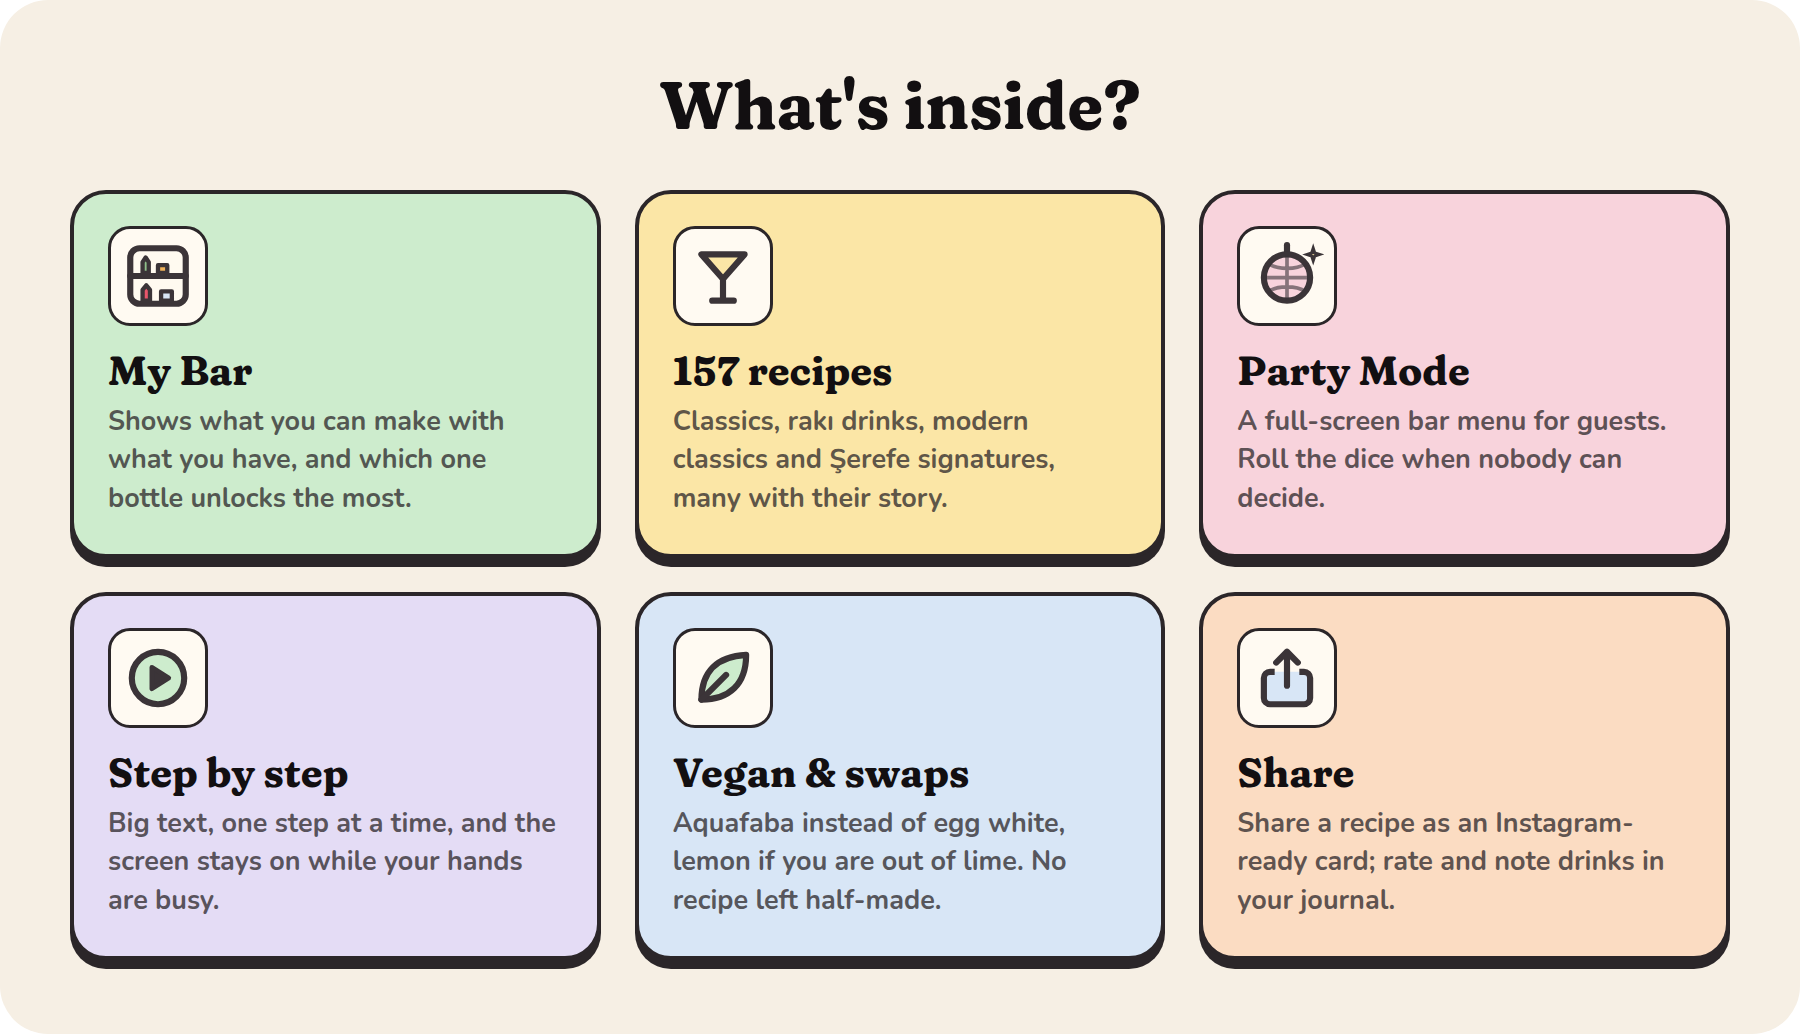
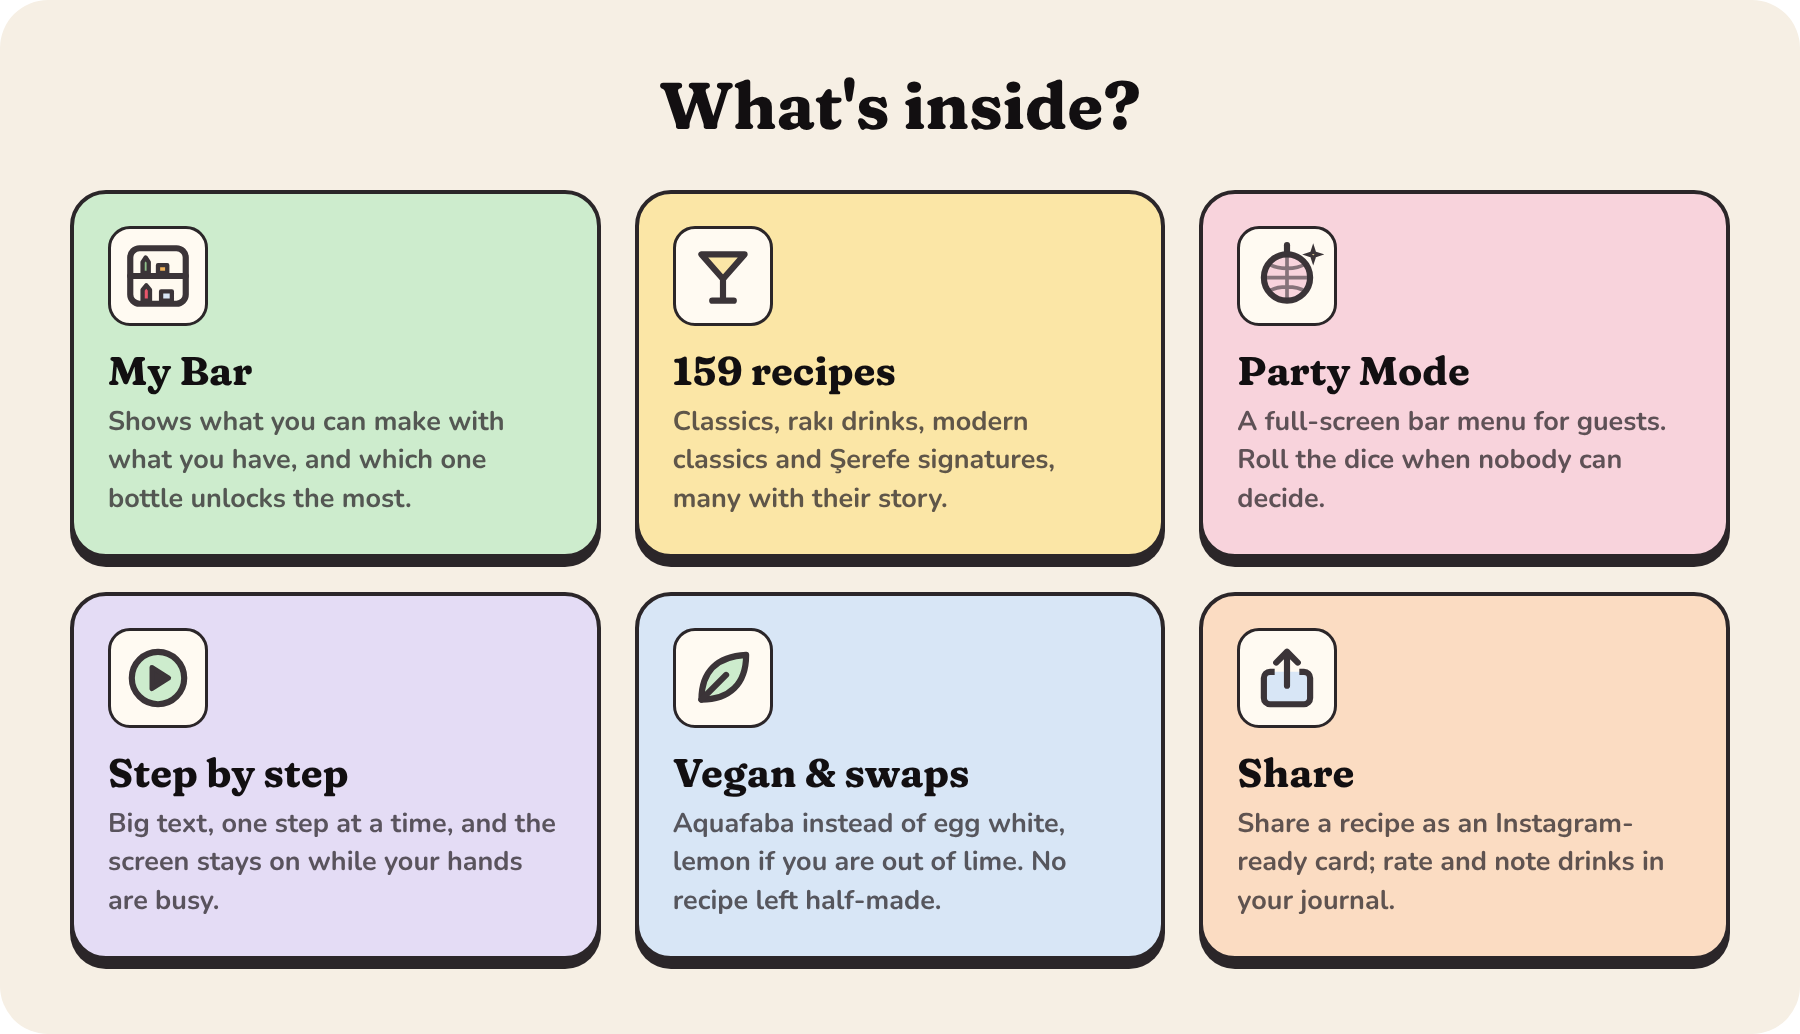
Şerefe 1.1.0 yayında: indirme notu sadeleşti, 159 tarif

diff --git a/README.md b/README.md
@@ -17,8 +17,7 @@ Tarif ezberlemek, bar ekipmanı ya da hesap açmak gerekmez: dolabını işaretl
   <a href="https://github.com/alper4n/serefe-app/releases/latest/download/Serefe-Windows-setup.exe"><img src=".github/img/indir-windows-tr.png" width="380" alt="Windows için indir (EXE)"></a>
 </p>
 
-> İlk sürüm hazırlanıyor; düğmeler kasım başında çalışmaya başlar. Telefondan bakıyorsan
-> **[serefe.app/indir](https://serefe.app/indir/)** cihazını tanır, doğru dosyayı en üstte gösterir.
+> Telefondan bakıyorsan **[serefe.app/indir](https://serefe.app/indir/)** cihazını tanır, doğru dosyayı en üstte gösterir.
 
 <p align="center">
   <img src=".github/img/adimlar-tr.png" width="900" alt="3 adımda Şerefe: 1) Dolabını aç ve elindekileri işaretle. 2) Şu an yapabileceklerine bak. 3) Adım adım yap ve şerefe!">
@@ -29,7 +28,7 @@ Tarif ezberlemek, bar ekipmanı ya da hesap açmak gerekmez: dolabını işaretl
 </p>
 
 <p align="center">
-  <img src=".github/img/ozellikler-tr.png" width="900" alt="İçinde neler var: Dolabım, 157 tarif, Parti Modu, adım adım mod, vegan seçenekler ve ikameler, tarifi resim olarak paylaşma">
+  <img src=".github/img/ozellikler-tr.png" width="900" alt="İçinde neler var: Dolabım, 159 tarif, Parti Modu, adım adım mod, vegan seçenekler ve ikameler, tarifi resim olarak paylaşma">
 </p>
 
 ### Bilgisayarda da

diff --git a/.github/english.md b/.github/english.md
@@ -19,8 +19,7 @@ No memorising recipes, no bar kit, no sign-up: tick what's in your cabinet, pick
   <a href="https://github.com/alper4n/serefe-app/releases/latest/download/Serefe-Windows-setup.exe"><img src="img/indir-windows-en.png" width="380" alt="Download for Windows (EXE)"></a>
 </p>
 
-> The first release is on its way; the buttons start working in early November. On a phone,
-> **[serefe.app/indir](https://serefe.app/indir/)** recognises your device and shows the right file first.
+> On a phone, **[serefe.app/indir](https://serefe.app/indir/)** recognises your device and shows the right file first.
 
 <p align="center">
   <img src="img/adimlar-en.png" width="900" alt="Cheers in 3 steps: 1) Open your bar and tick what you have. 2) See what you can make. 3) Follow the steps and say şerefe!">
@@ -31,7 +30,7 @@ No memorising recipes, no bar kit, no sign-up: tick what's in your cabinet, pick
 </p>
 
 <p align="center">
-  <img src="img/ozellikler-en.png" width="900" alt="What's inside: My Bar, 157 recipes, Party Mode, step-by-step mode, vegan options and swaps, share a recipe as an image">
+  <img src="img/ozellikler-en.png" width="900" alt="What's inside: My Bar, 159 recipes, Party Mode, step-by-step mode, vegan options and swaps, share a recipe as an image">
 </p>
 
 ### On your computer too
